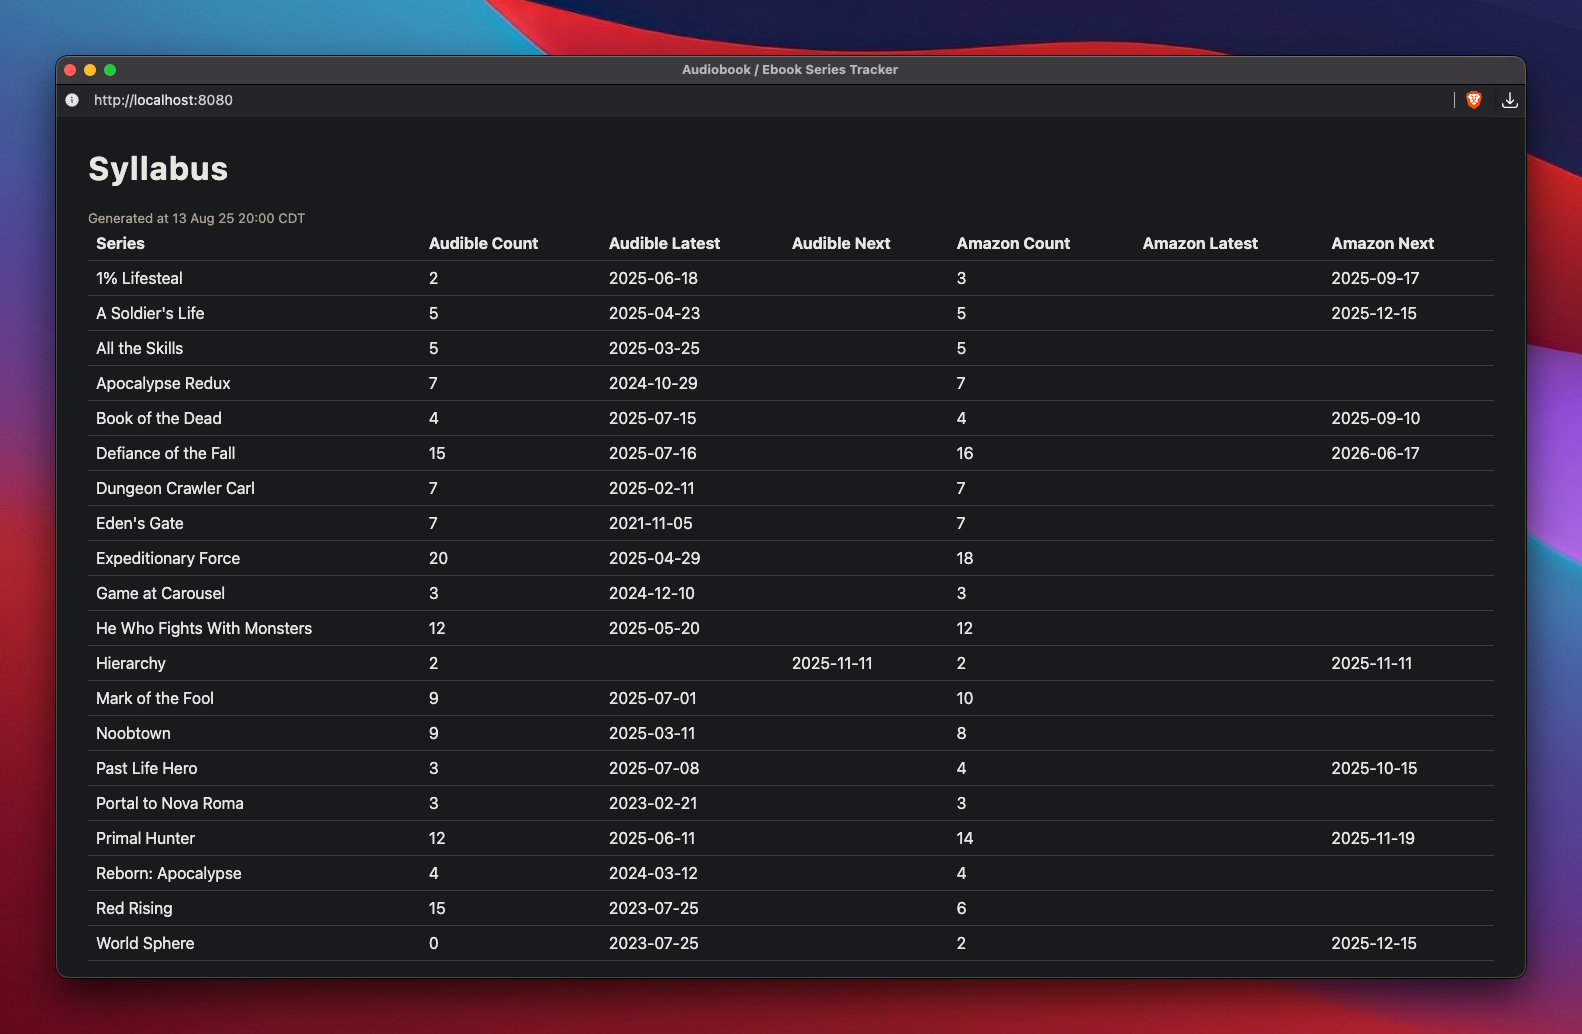
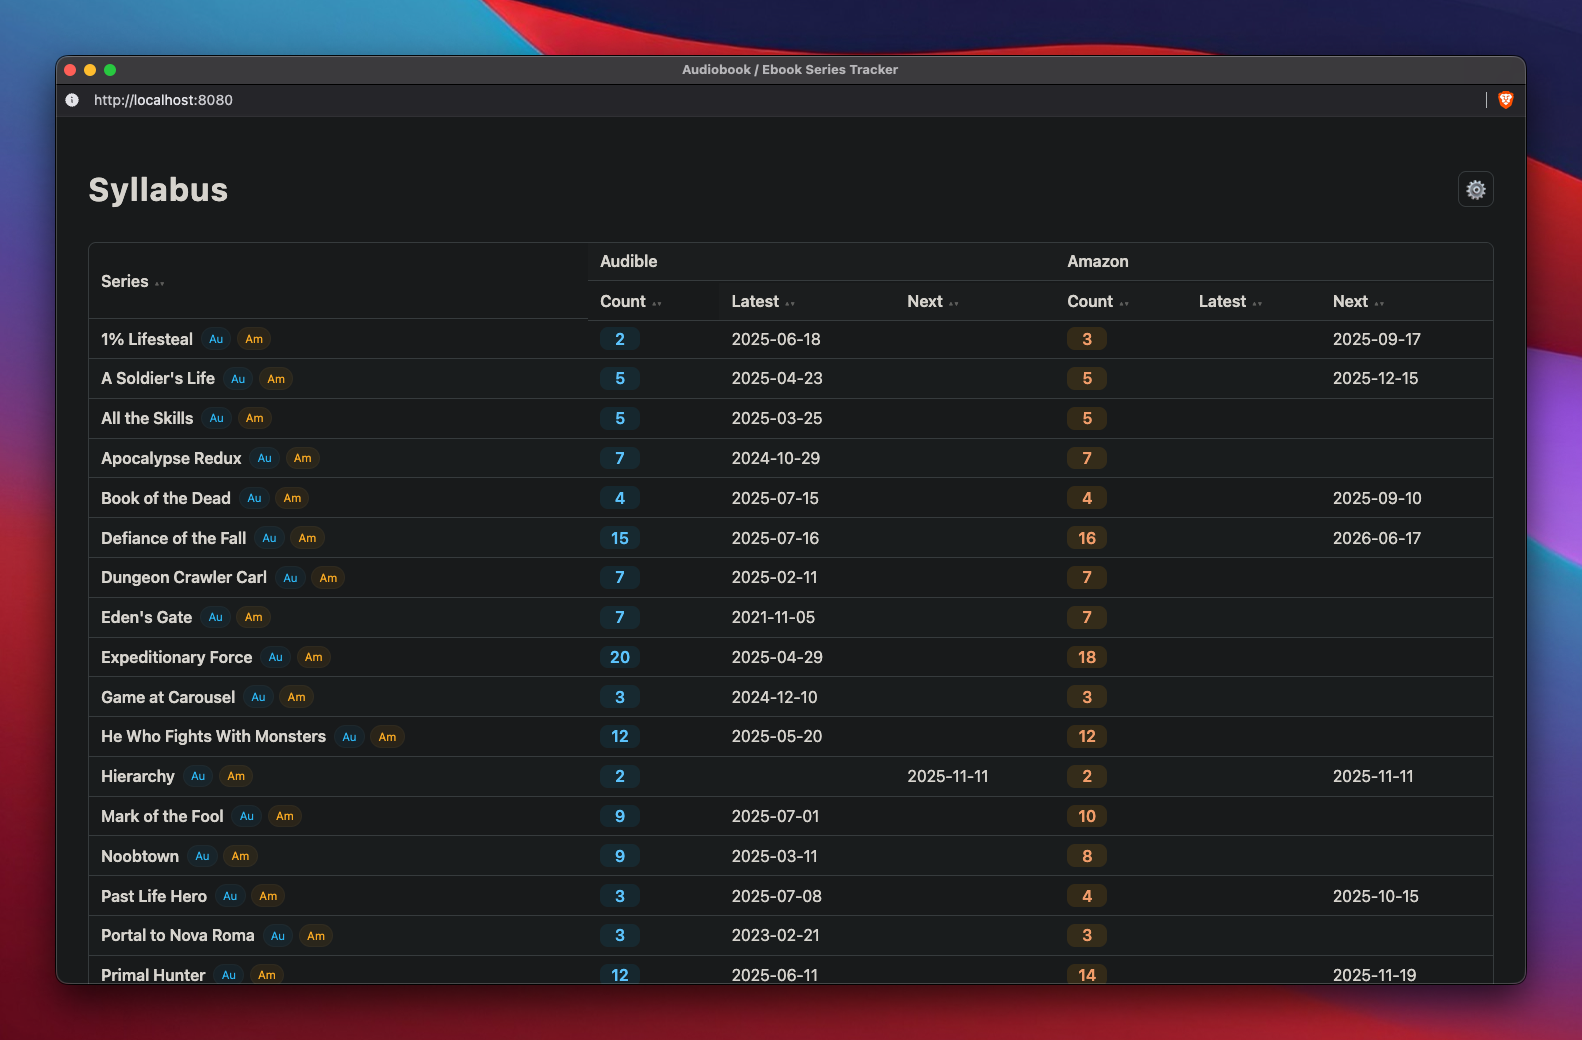
Update readme with new info

diff --git a/README.md b/README.md
@@ -1,10 +1,10 @@
-# Syllabus
+# syllabus
 
 A small Go web app that reads a YAML list of audiobook series and displays live series metadata by scraping Audible and Amazon. It exposes a simple web UI and a JSON API.
 
 So I was maintaining this Obsidian "database" manually and got pretty tired of having to open up a ton of tabs and checking release dates periodically, resulting in Syllabus. Sample config is included to see how the screenshot below was created.
 
-I call it `Syllabus` because, well, it's a list of things to read.
+I call it `syllabus` because it's a list of things to read.
 
 It's barebones and does just what I need it to do. 
 
@@ -20,14 +20,36 @@ It's barebones and does just what I need it to do.
 - Optional file watching to auto-reload YAML changes
 - Minimal HTML table view and JSON API
 
+## Functionality
+ 
+- Sortable columns
+- Audible + Amazon links to series added to rows
+- Settings started to be implemented
+
 ## Requirements
 
 - Go 1.24+
 - Internet access
 - A YAML file of series
 
+## Configuration
 
-## Run
+YAML schema:
+
+```yaml
+audiobooks:
+  - title: "1% Lifesteal"
+    audible: "https://www.audible.com/series/1-Lifesteal-Audiobooks/B0F8QMLV9T"
+    amazon: "https://www.amazon.com/dp/B0DGWCJ6JP"
+  - title: "A Soldier's Life"
+    audible: "https://www.audible.com/series/A-Soldiers-Life-Audiobooks/B0D34549LX"
+    amazon: "https://www.amazon.com/dp/B0CW18NDBQ"
+```
+
+Only title, audible, and amazon are required for scraping.
+
+
+## Run Locally
 
 ```bash
 ❯ which dlf
@@ -45,22 +67,6 @@ docker buildx build -t syllabus:latest . \
 ```
 
 Open http://localhost:8081 for the UI. The API is available at /api/series.
-
-## Configuration
-
-YAML schema:
-
-```yaml
-audiobooks:
-  - title: "1% Lifesteal"
-    audible: "https://www.audible.com/series/1-Lifesteal-Audiobooks/B0F8QMLV9T"
-    amazon: "https://www.amazon.com/dp/B0DGWCJ6JP"
-  - title: "A Soldier's Life"
-    audible: "https://www.audible.com/series/A-Soldiers-Life-Audiobooks/B0D34549LX"
-    amazon: "https://www.amazon.com/dp/B0CW18NDBQ"
-```
-
-Only title, audible, and amazon are required for scraping.
 
 ## Data Sources
 
